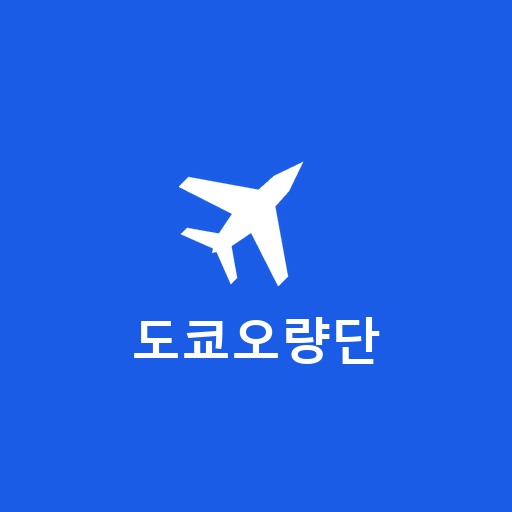
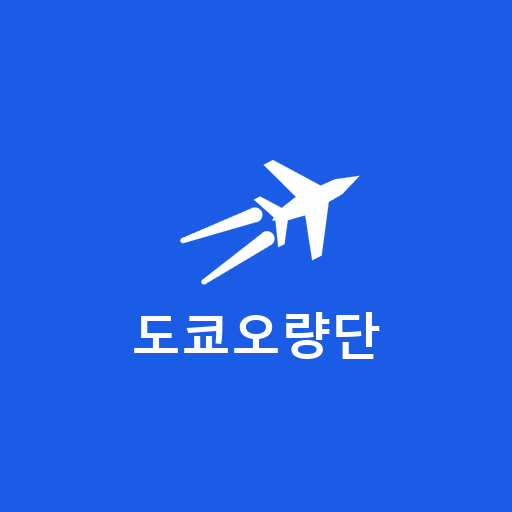
로고 수정: 비행기 각도와 기류 추가
- 비행기 각도를 수평 기준 45도에서 27도로 낮추고 오른쪽으로 조금 이동
- 꼬리 뒤에 하얀 기류 두 줄 추가 (뒤로 갈수록 가늘어지는 형태)
- 아이콘 4종(512/192/180/maskable) 모두 새로 생성
- 서비스 워커 캐시 v14

Changed region(s): [[0.3438, 0.3125, 0.7188, 0.5625], [0.25, 0.5938, 0.75, 0.7188]]

diff --git a/sw.js b/sw.js
@@ -5,7 +5,7 @@
  * 내용을 크게 바꿨을 땐 CACHE 버전을 올린다.
  */
 
-const CACHE = "tokyo-guide-v13";
+const CACHE = "tokyo-guide-v14";
 
 const PRECACHE = [
   "./",
